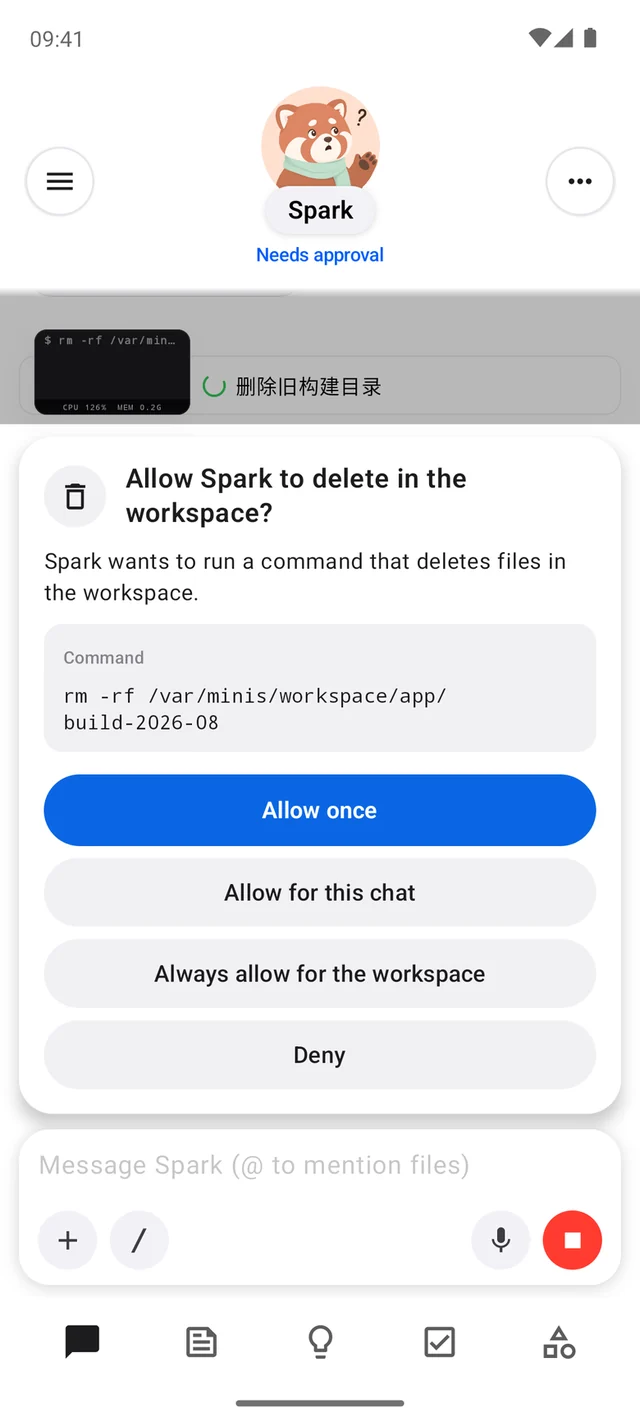
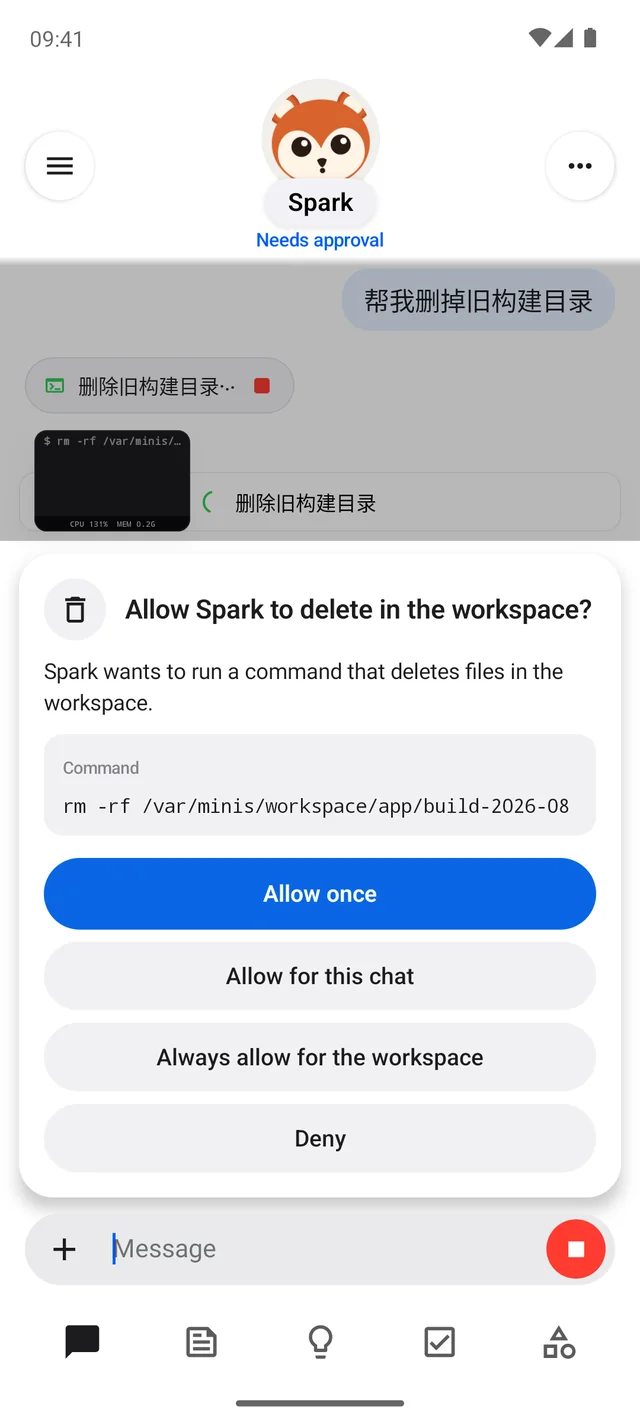
0.1.8 Polish: current version, chat screenshot retaken

Changed region(s): [[0.0, 0.0619, 1.0, 0.8973], [0.0625, 0.0928, 0.125, 0.1547], [0.8438, 0.4641, 0.875, 0.4951]]

diff --git a/index.html b/index.html
@@ -65,8 +65,8 @@
           </a>
         </div>
         <p class="fine">
-          <i class="en">Android 8.0 or newer, arm64 · alpha 0.1.7 · every version is signed with the same key and installs over the last.</i>
-          <i class="zh">Android 8.0 以上，arm64 · alpha 0.1.7 · 每个版本同一把签名，覆盖安装即可升级。</i>
+          <i class="en">Android 8.0 or newer, arm64 · alpha 0.1.8 · every version is signed with the same key and installs over the last.</i>
+          <i class="zh">Android 8.0 以上，arm64 · alpha 0.1.8 · 每个版本同一把签名，覆盖安装即可升级。</i>
         </p>
       </section>
 
@@ -181,7 +181,8 @@
           <li><a href="https://github.com/nano-muse/nanoMuse/releases/tag/v0.1.4" rel="noopener">0.1.4</a><span class="name">Guardrails</span><span class="what"><i class="en">Approvals with scope before deleting, sending, paying.</i><i class="zh">删除、发送、付款前带范围的审批。</i></span></li>
           <li><a href="https://github.com/nano-muse/nanoMuse/releases/tag/v0.1.5" rel="noopener">0.1.5</a><span class="name">Memory</span><span class="what"><i class="en">The feed, the system files, memory import, "continue?".</i><i class="zh">动态、系统文件、记忆导入、「继续？」。</i></span></li>
           <li><a href="https://github.com/nano-muse/nanoMuse/releases/tag/v0.1.6" rel="noopener">0.1.6</a><span class="name">Avatar</span><span class="what"><i class="en">A face you choose, posed and animated; motion everywhere.</i><i class="zh">你挑的脸，有姿势有动作；处处有动效。</i></span></li>
-          <li class="current"><a href="https://github.com/nano-muse/nanoMuse/releases/tag/v0.1.7" rel="noopener">0.1.7</a><span class="name">Welcome</span><span class="what"><i class="en">The first run: a welcome screen with the three steps — provider, its models, meet the agent.</i><i class="zh">第一次运行：欢迎页带三步——服务商、它的模型、认识它。</i></span></li>
+          <li><a href="https://github.com/nano-muse/nanoMuse/releases/tag/v0.1.7" rel="noopener">0.1.7</a><span class="name">Welcome</span><span class="what"><i class="en">The first run: a welcome screen with the three steps — provider, its models, meet the agent.</i><i class="zh">第一次运行：欢迎页带三步——服务商、它的模型、认识它。</i></span></li>
+          <li class="current"><a href="https://github.com/nano-muse/nanoMuse/releases/tag/v0.1.8" rel="noopener">0.1.8</a><span class="name">Polish</span><span class="what"><i class="en">The shell level with Muse's: type, the composer pill, only the name under the face, Muse's settings pages.</i><i class="zh">壳子对齐 Muse：字体排印、胶囊输入框、脸下只有名字、Muse 样式的设置页。</i></span></li>
           <li class="next"><span class="ver">0.2.0</span><span class="name">Beta</span><span class="what"><i class="en">Polish from the first weeks of use; the first beta.</i><i class="zh">头几周使用后的打磨；第一个 beta。</i></span></li>
         </ol>
         <p class="more">
